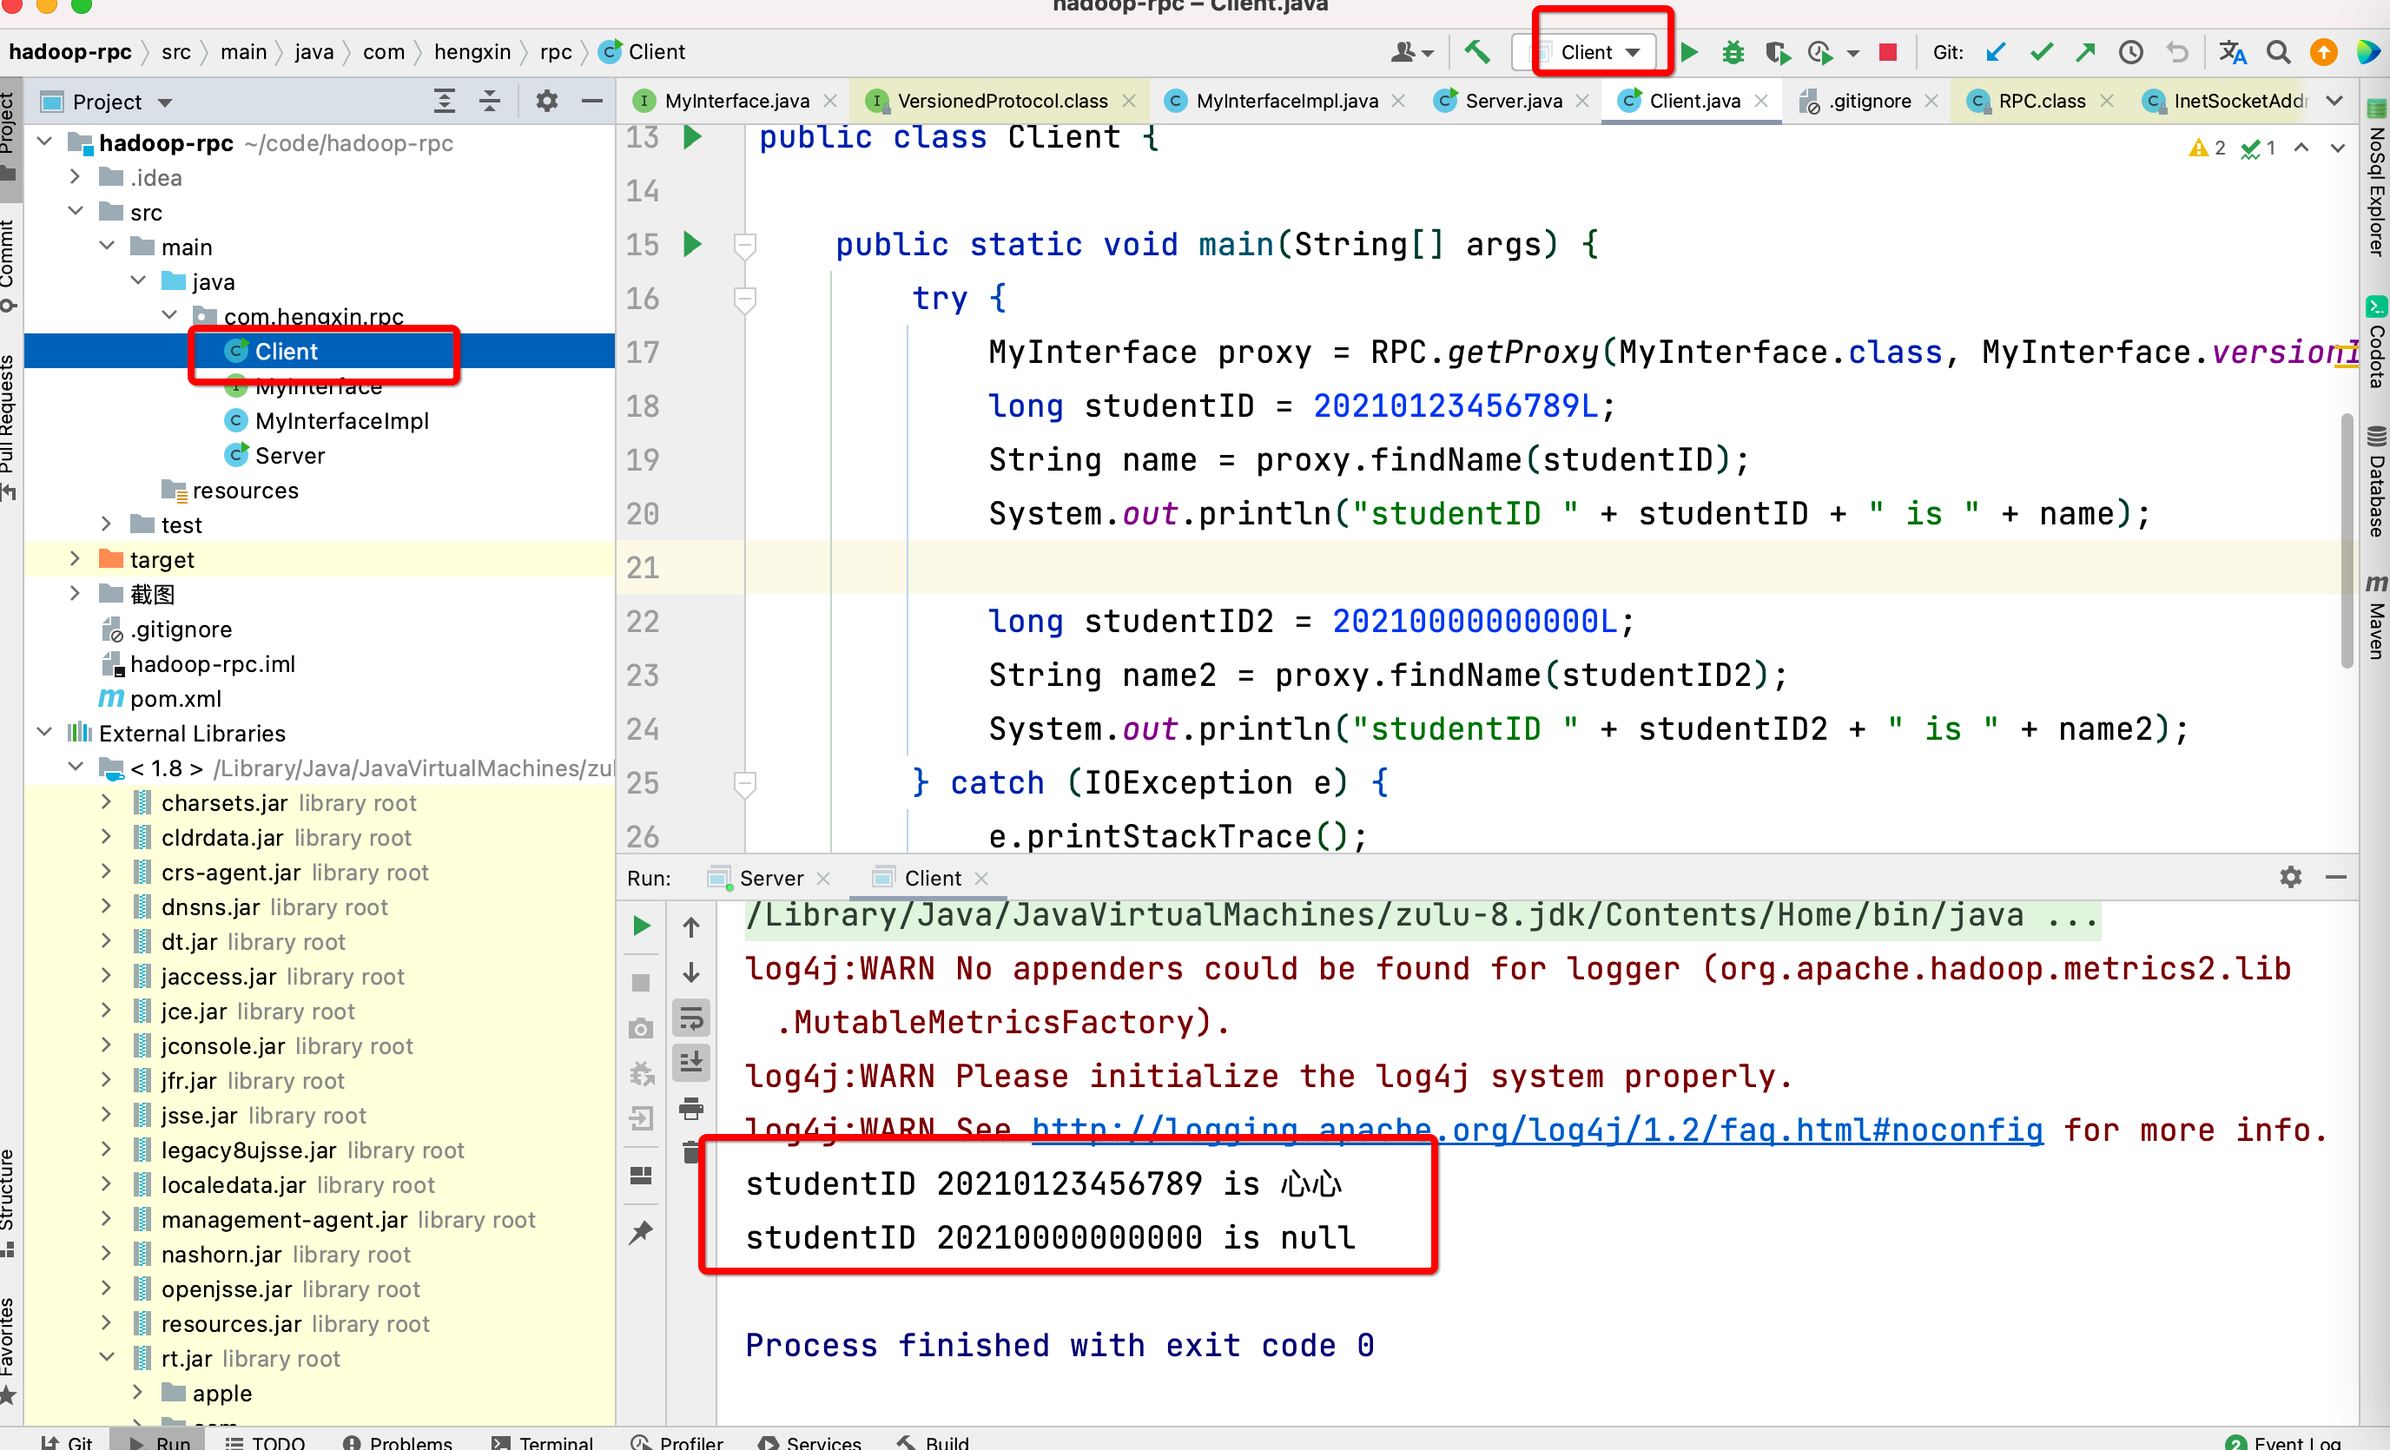
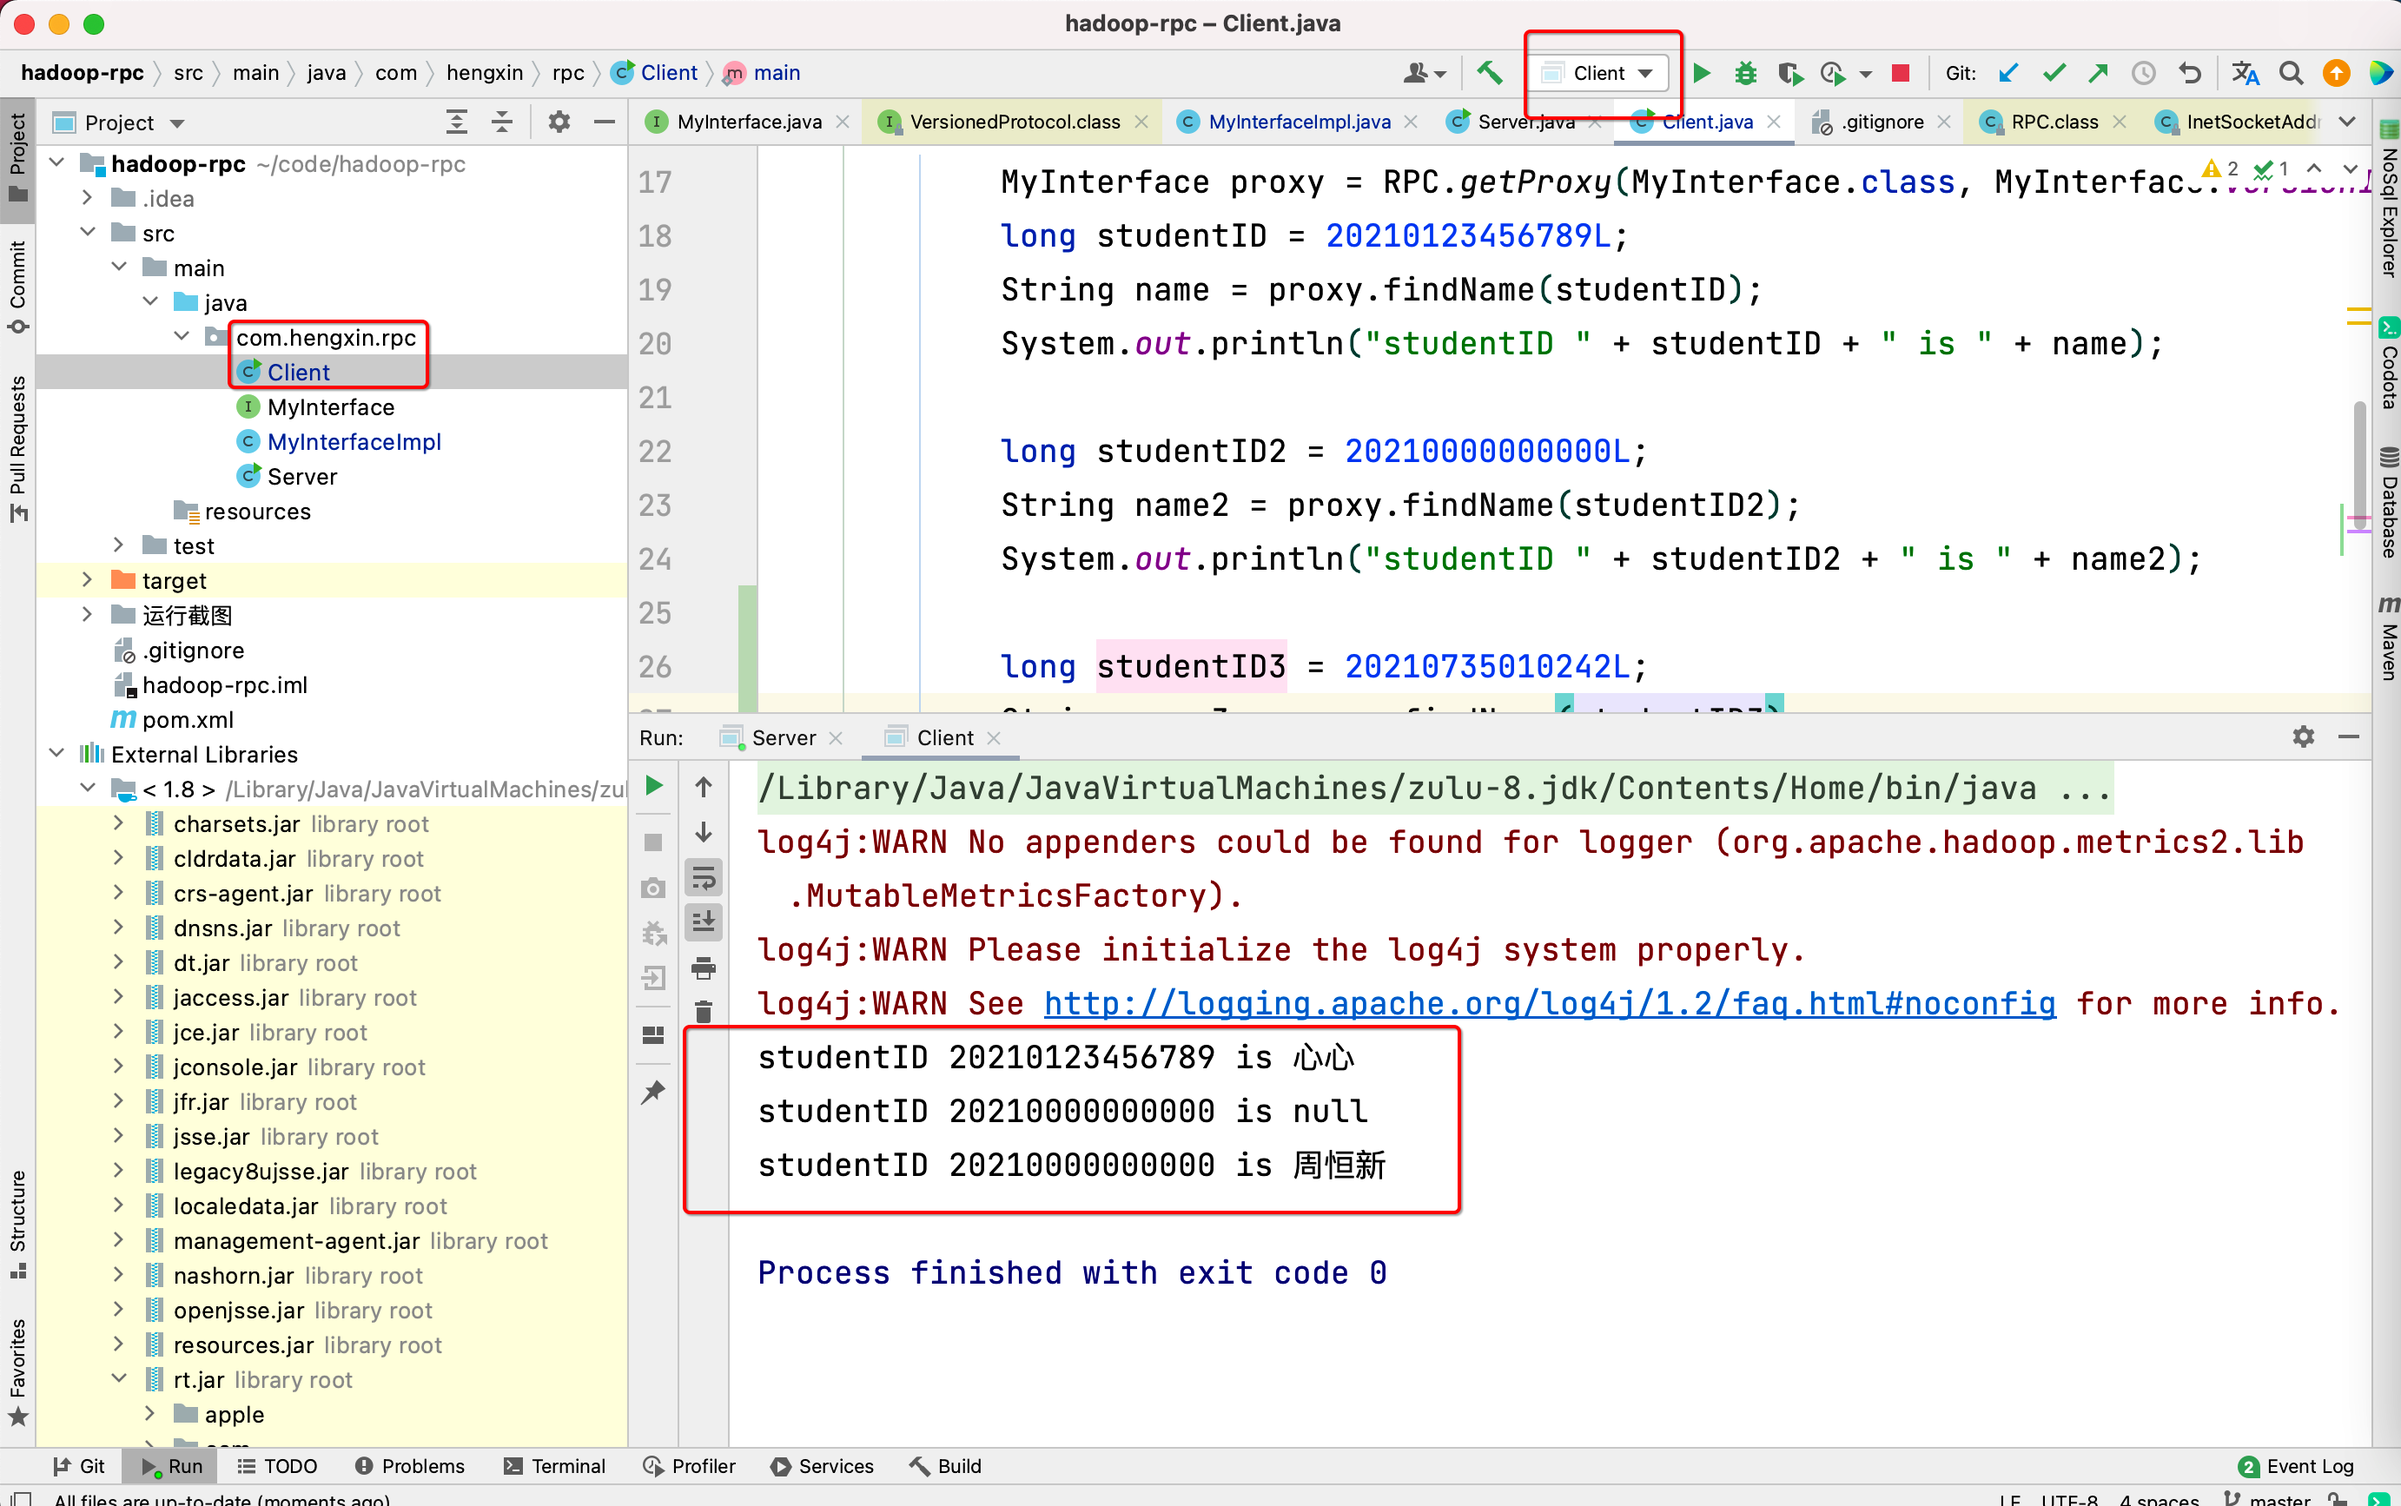
feat: 添加截图

Changed region(s): [[0.0, 0.0, 1.0, 1.0], [0.8438, 0.9653, 1.0, 1.0]]

diff --git a/src/main/java/com/hengxin/rpc/Client.java b/src/main/java/com/hengxin/rpc/Client.java
@@ -22,6 +22,11 @@ public class Client {
             long studentID2 = 20210000000000L;
             String name2 = proxy.findName(studentID2);
             System.out.println("studentID " + studentID2 + " is " + name2);
+
+            long studentID3 = 20210735010242L;
+            String name3 = proxy.findName(studentID3);
+            System.out.println("studentID " + studentID2 + " is " + name3);
+
         } catch (IOException e) {
             e.printStackTrace();
         }

diff --git a/src/main/java/com/hengxin/rpc/MyInterfaceImpl.java b/src/main/java/com/hengxin/rpc/MyInterfaceImpl.java
@@ -24,6 +24,7 @@ public class MyInterfaceImpl implements MyInterface {
     private static HashMap<Long, String> hashMap = new HashMap<Long, String>() {
         {
             put(20210123456789L, "心心");
+            put(20210735010242L, "周恒新");
         }
     };
 
